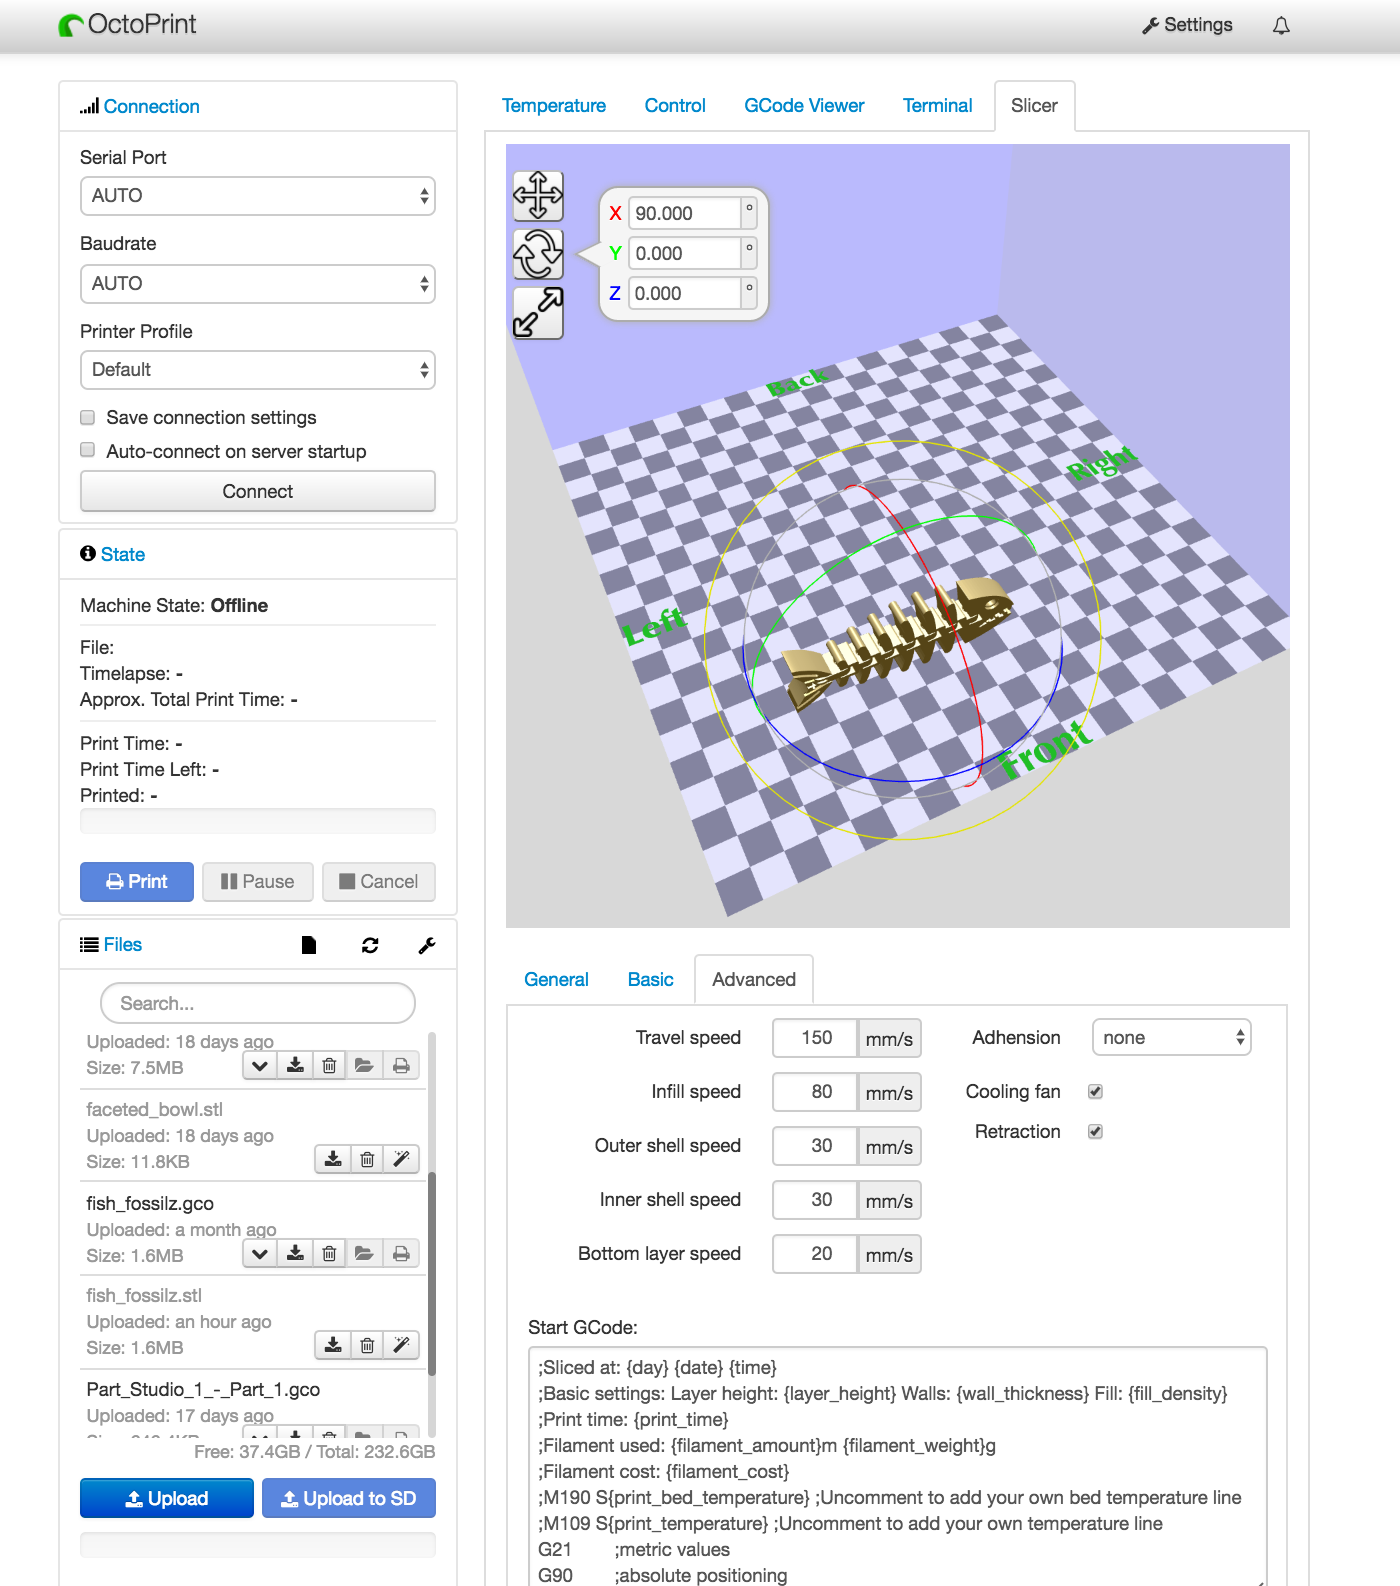
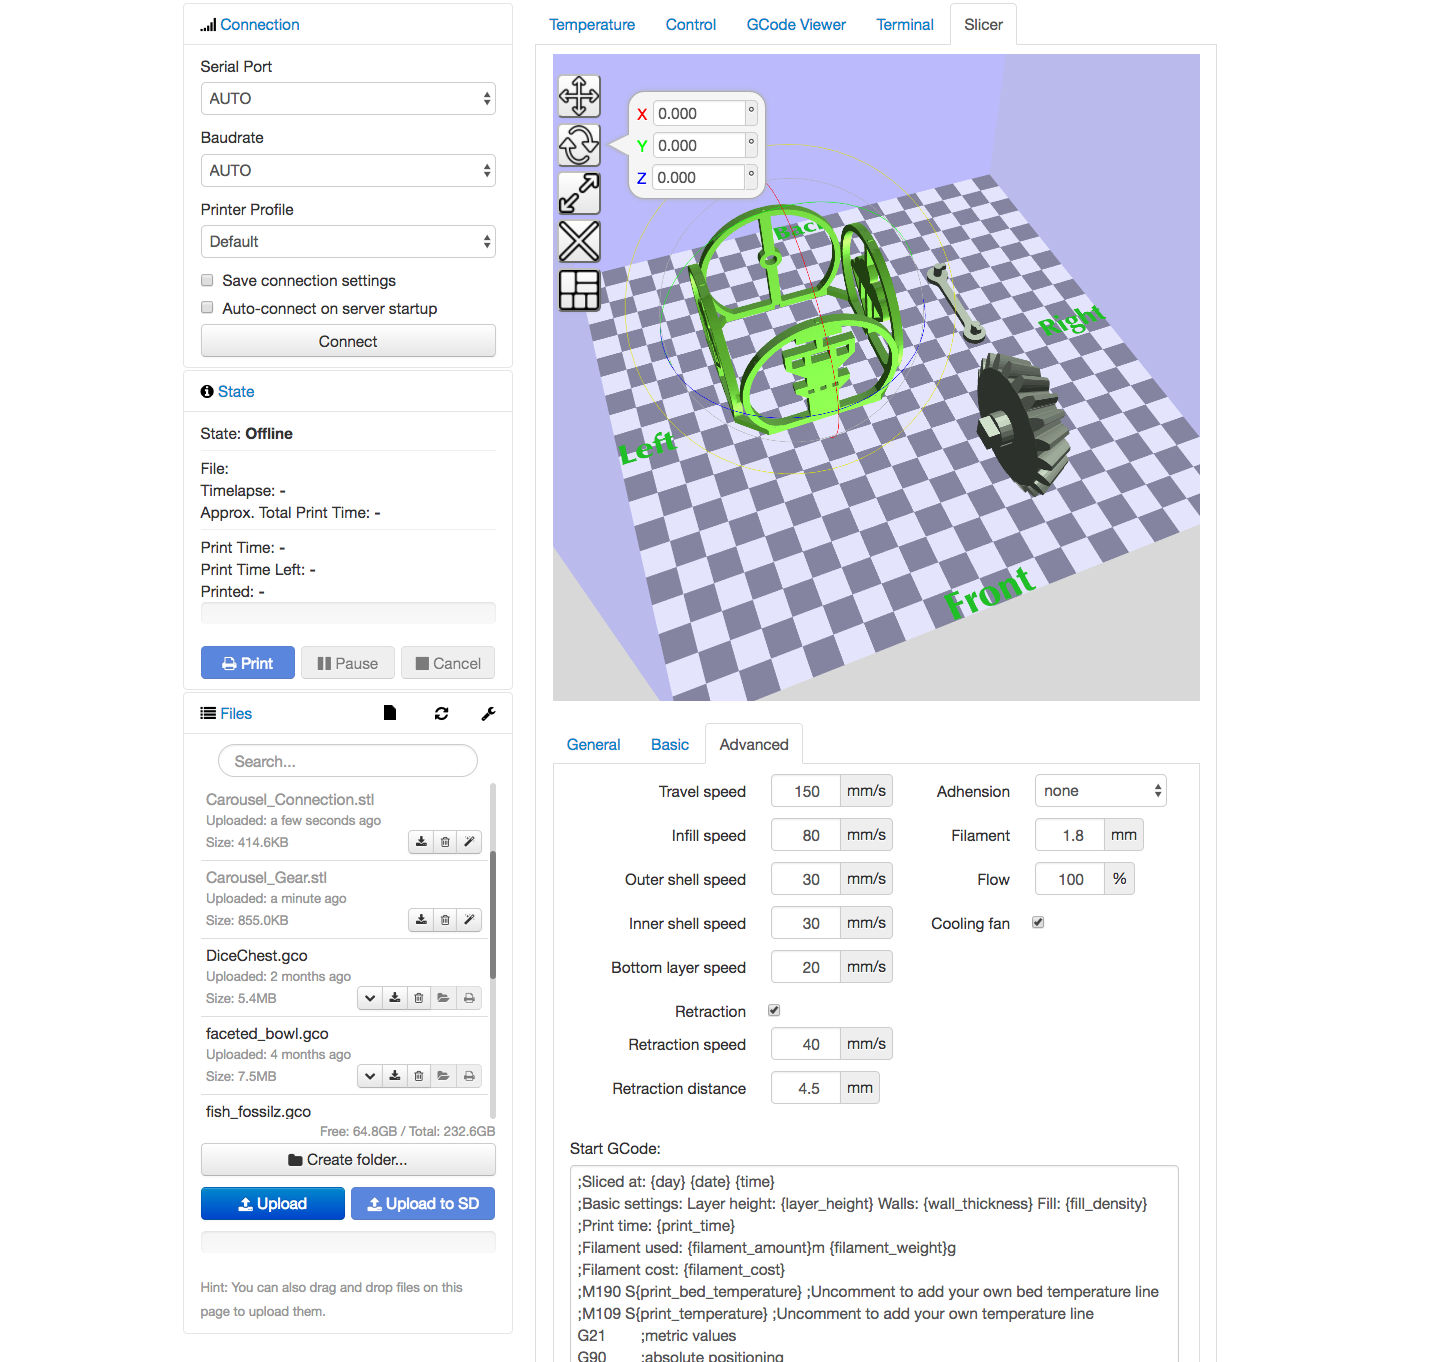
bump version. documentation update

diff --git a/setup.py b/setup.py
@@ -14,7 +14,7 @@ plugin_package = "octoprint_slicer"
 plugin_name = "OctoPrint-Slicer"
 
 # The plugin's version. Can be overwritten within OctoPrint's internal data via __plugin_version__ in the plugin module
-plugin_version = "0.9.0"
+plugin_version = "0.9.1"
 
 # The plugin's description. Can be overwritten within OctoPrint's internal data via __plugin_description__ in the plugin
 # module

diff --git a/README.md b/README.md
@@ -1,6 +1,6 @@
 # OctoPrint Slicer
 
-A full-blown GUI-based slicer. Rotate and scale model; set layer height and other critical parameters.
+A full-blown GUI-based slicer. Rotate and scale model; slice multiple STL files at a time; set layer height and other slicing settings
 
 A picture is worth 1000 words:
 
